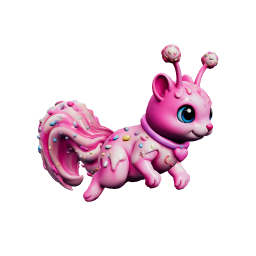
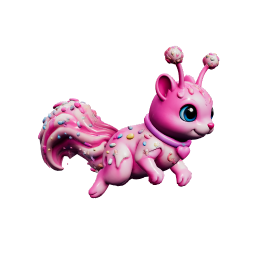
beta Pinky: the tail straightens as it swings out, and snaps on the tap
Owner: "the tail stays curled the whole time that's the issue ... the
animation doesn't feel like it plays on tap."

- the curl opens with the swing (unfurl follows tailOut, up to 0.85 straight
  out) and closes again on the upswing; at rest it keeps the sculpted scroll
- the tap snaps out on its second frame (was the fourth), then holds
- the dive straightens the same way; the rig unrolls (RIG_OPTS.unroll)

Claude-Session: https://claude.ai/code/session_01AxarYXSPHDGFV5QY8gYCSr

Changed region(s): [[0.125, 0.1562, 0.875, 0.8125]]

diff --git a/tools/rig3d/moves.js b/tools/rig3d/moves.js
@@ -22,11 +22,20 @@ export const LEVEL = { pitch: 0, spine: 0, head: 0, ears: 0, front: 6, paw: 0, h
 // plume lines up with the body as it tips nose down
 const DIVE_OUT = 1.25;
 // THE TAP'S TAIL, keyed to Robo's painted bank (owner, 26 Oct 2026: "the tail movement on
-// tap is NOT playing enough"): sweep down to straight out and HOLD there, swing back up past
-// rest so it leans forward over the back, sweep down again, settle. [u, tailOut] pairs,
-// eased between, so the same keys read the same at 12 frames or 16.
-const TAP_KEYS = [[0, LEVEL.tailOut], [0.12, 0.85], [0.22, 1.3], [0.42, 1.3], [0.52, 0.5],
-  [0.62, -0.35], [0.68, -0.35], [0.76, 0.9], [0.83, 1.15], [0.92, 0.6], [1, LEVEL.tailOut]];
+// tap is NOT playing enough" ... "the animation doesn't feel like it plays on tap"): it SNAPS
+// out on the first frames after the tap, holds straight out, swings back up past rest so it
+// leans over the back, sweeps down again and settles. [u, tailOut] pairs, eased between, so
+// the same keys read the same at 12 frames or 16.
+const TAP_KEYS = [[0, LEVEL.tailOut], [0.08, 1.1], [0.16, 1.3], [0.36, 1.3], [0.46, 0.55],
+  [0.56, -0.3], [0.62, -0.3], [0.72, 0.95], [0.8, 1.15], [0.9, 0.6], [1, LEVEL.tailOut]];
+// THE CURL OPENS AS THE TAIL SWINGS OUT (owner: "the tail stays curled the whole time that's
+// the issue ... look at ... how much the tail straightened and moved"). At rest and swung up
+// the plume keeps its sculpted curl; swung out it straightens by up to UNFURL_OUT. Never at
+// rest: unrolling it there is what smeared the scroll.
+const UNFURL_OUT = 0.85, OUT_MAX = 1.3;
+const unfurlFor = out => UNFURL_OUT * Math.min(1, Math.max(0, (out - LEVEL.tailOut) / (OUT_MAX - LEVEL.tailOut)));
+// the rig options these moves need: unrolling the curl cuts where the sculpt fused it
+export const RIG_OPTS = { unroll: true };
 const keyed = (keys, u) => {
   let i = 1; while (i < keys.length - 1 && u > keys[i][0]) i++;
   const [u0, a] = keys[i - 1], [u1, b] = keys[i], x = Math.min(1, Math.max(0, (u - u0) / (u1 - u0)));
@@ -34,8 +43,9 @@ const keyed = (keys, u) => {
 };
 
 export const MOVES = {
-  // Robo's tail (TAP_KEYS): down to straight out and held, up past rest, down again, home,
-  // with a light whip running down it, while the body bobs once and the legs paddle.
+  // Robo's tail (TAP_KEYS): snaps out and holds, straightening as it goes; up past rest,
+  // curled again; down again; home. A light whip runs down it, the body bobs once and the
+  // legs paddle.
   tap: {
     frames: 16, loop: true,
     pose(u) {
@@ -52,7 +62,7 @@ export const MOVES = {
         paw: w(-12, 1.0),
         hind: LEVEL.hind + w(-22, 0),
         hindLow: w(14, 0.8),
-        tailOut: keyed(TAP_KEYS, u),
+        tailOut: keyed(TAP_KEYS, u), unfurl: unfurlFor(keyed(TAP_KEYS, u)),
         tail: (f, k) => 2 * f * (Math.sin(2 * c - 0.6 - k * 0.42) - Math.sin(-0.6 - k * 0.42)),
       };
     },
@@ -81,7 +91,7 @@ export const MOVES = {
         spine: -6 * e, head: 18 * e, ears: 32 * e,
         front: LEVEL.front + 66 * e, paw: -10 * e,
         hind: LEVEL.hind - 40 * e, hindLow: 18 * e,
-        tailOut: LEVEL.tailOut + (DIVE_OUT - LEVEL.tailOut) * t,
+        tailOut: LEVEL.tailOut + (DIVE_OUT - LEVEL.tailOut) * t, unfurl: UNFURL_OUT * t,
       };
     },
   },

diff --git a/tools/rig3d/studio.html b/tools/rig3d/studio.html
@@ -12,7 +12,7 @@
 import * as THREE from 'three';
 import { GLTFExporter } from 'three/addons/exporters/GLTFExporter.js';
 import { loadRig } from './autorig.js';
-import { MOVES as ALL_MOVES } from './moves.js';
+import { MOVES as ALL_MOVES, RIG_OPTS } from './moves.js';
 
 const q = new URLSearchParams(location.search);
 const SIZE = +(q.get('size') || 512);
@@ -24,7 +24,7 @@ R.setPixelRatio(1); R.setSize(SIZE, SIZE);
 R.outputColorSpace = THREE.SRGBColorSpace; R.toneMapping = THREE.ACESFilmicToneMapping; R.toneMappingExposure = 1.05;
 document.body.appendChild(R.domElement);
 
-const rig = await loadRig(q.get('model'));
+const rig = await loadRig(q.get('model'), RIG_OPTS || {});
 const scene = new THREE.Scene(); scene.add(rig.pivot);
 scene.add(new THREE.HemisphereLight(0xfff4fb, 0x3a2f55, 2.0));
 const key = new THREE.DirectionalLight(0xffffff, 2.4); scene.add(key);

diff --git a/docs/js/catalog.js b/docs/js/catalog.js
@@ -62,7 +62,7 @@ export const HYPER_RUN_ENABLED = true;
 // Stamped by export-sandbox.mjs at build time, so two approvals of the
 // same day are still tellable apart on the Profile footer. Unbuilt source
 // (labs, tests) shows no stamp rather than a stale one.
-export const BUILD_TIME = "2026-10-26 02:26 UTC";
+export const BUILD_TIME = "2026-10-26 02:53 UTC";
 // THE DEV STAMP ROLLS EVERY CHANGE (owner: "so i can verify it loaded").
 // A version that never moves cannot answer the only question it is read
 // for, which is the hour the owner just lost: new art loaded in a private

diff --git a/docs/js309/catalog.js b/docs/js309/catalog.js
@@ -62,7 +62,7 @@ export const HYPER_RUN_ENABLED = true;
 // Stamped by export-sandbox.mjs at build time, so two approvals of the
 // same day are still tellable apart on the Profile footer. Unbuilt source
 // (labs, tests) shows no stamp rather than a stale one.
-export const BUILD_TIME = "2026-10-26 02:26 UTC";
+export const BUILD_TIME = "2026-10-26 02:53 UTC";
 // THE DEV STAMP ROLLS EVERY CHANGE (owner: "so i can verify it loaded").
 // A version that never moves cannot answer the only question it is read
 // for, which is the hour the owner just lost: new art loaded in a private
